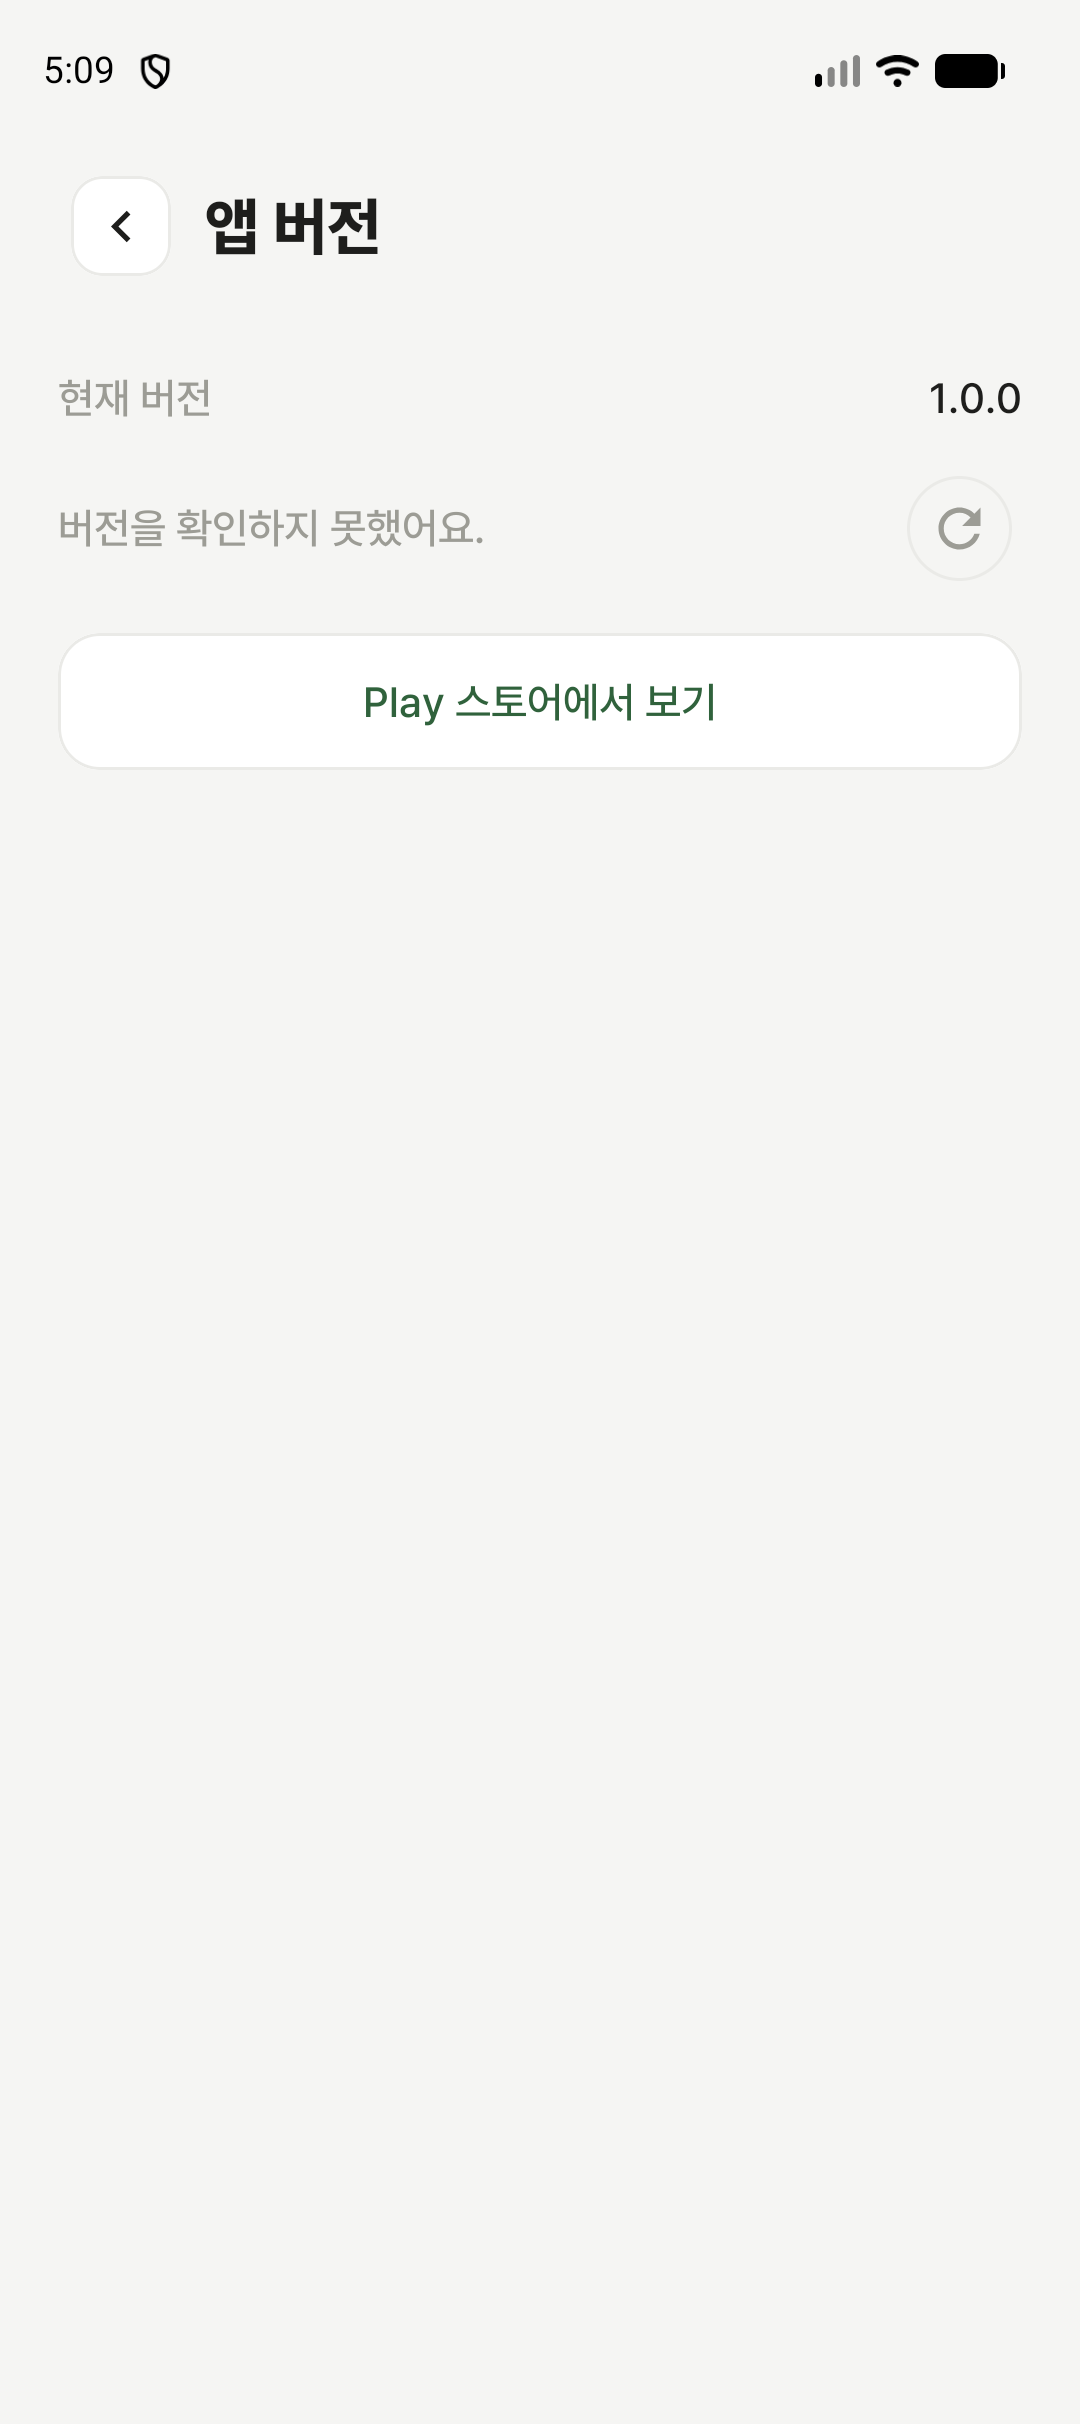
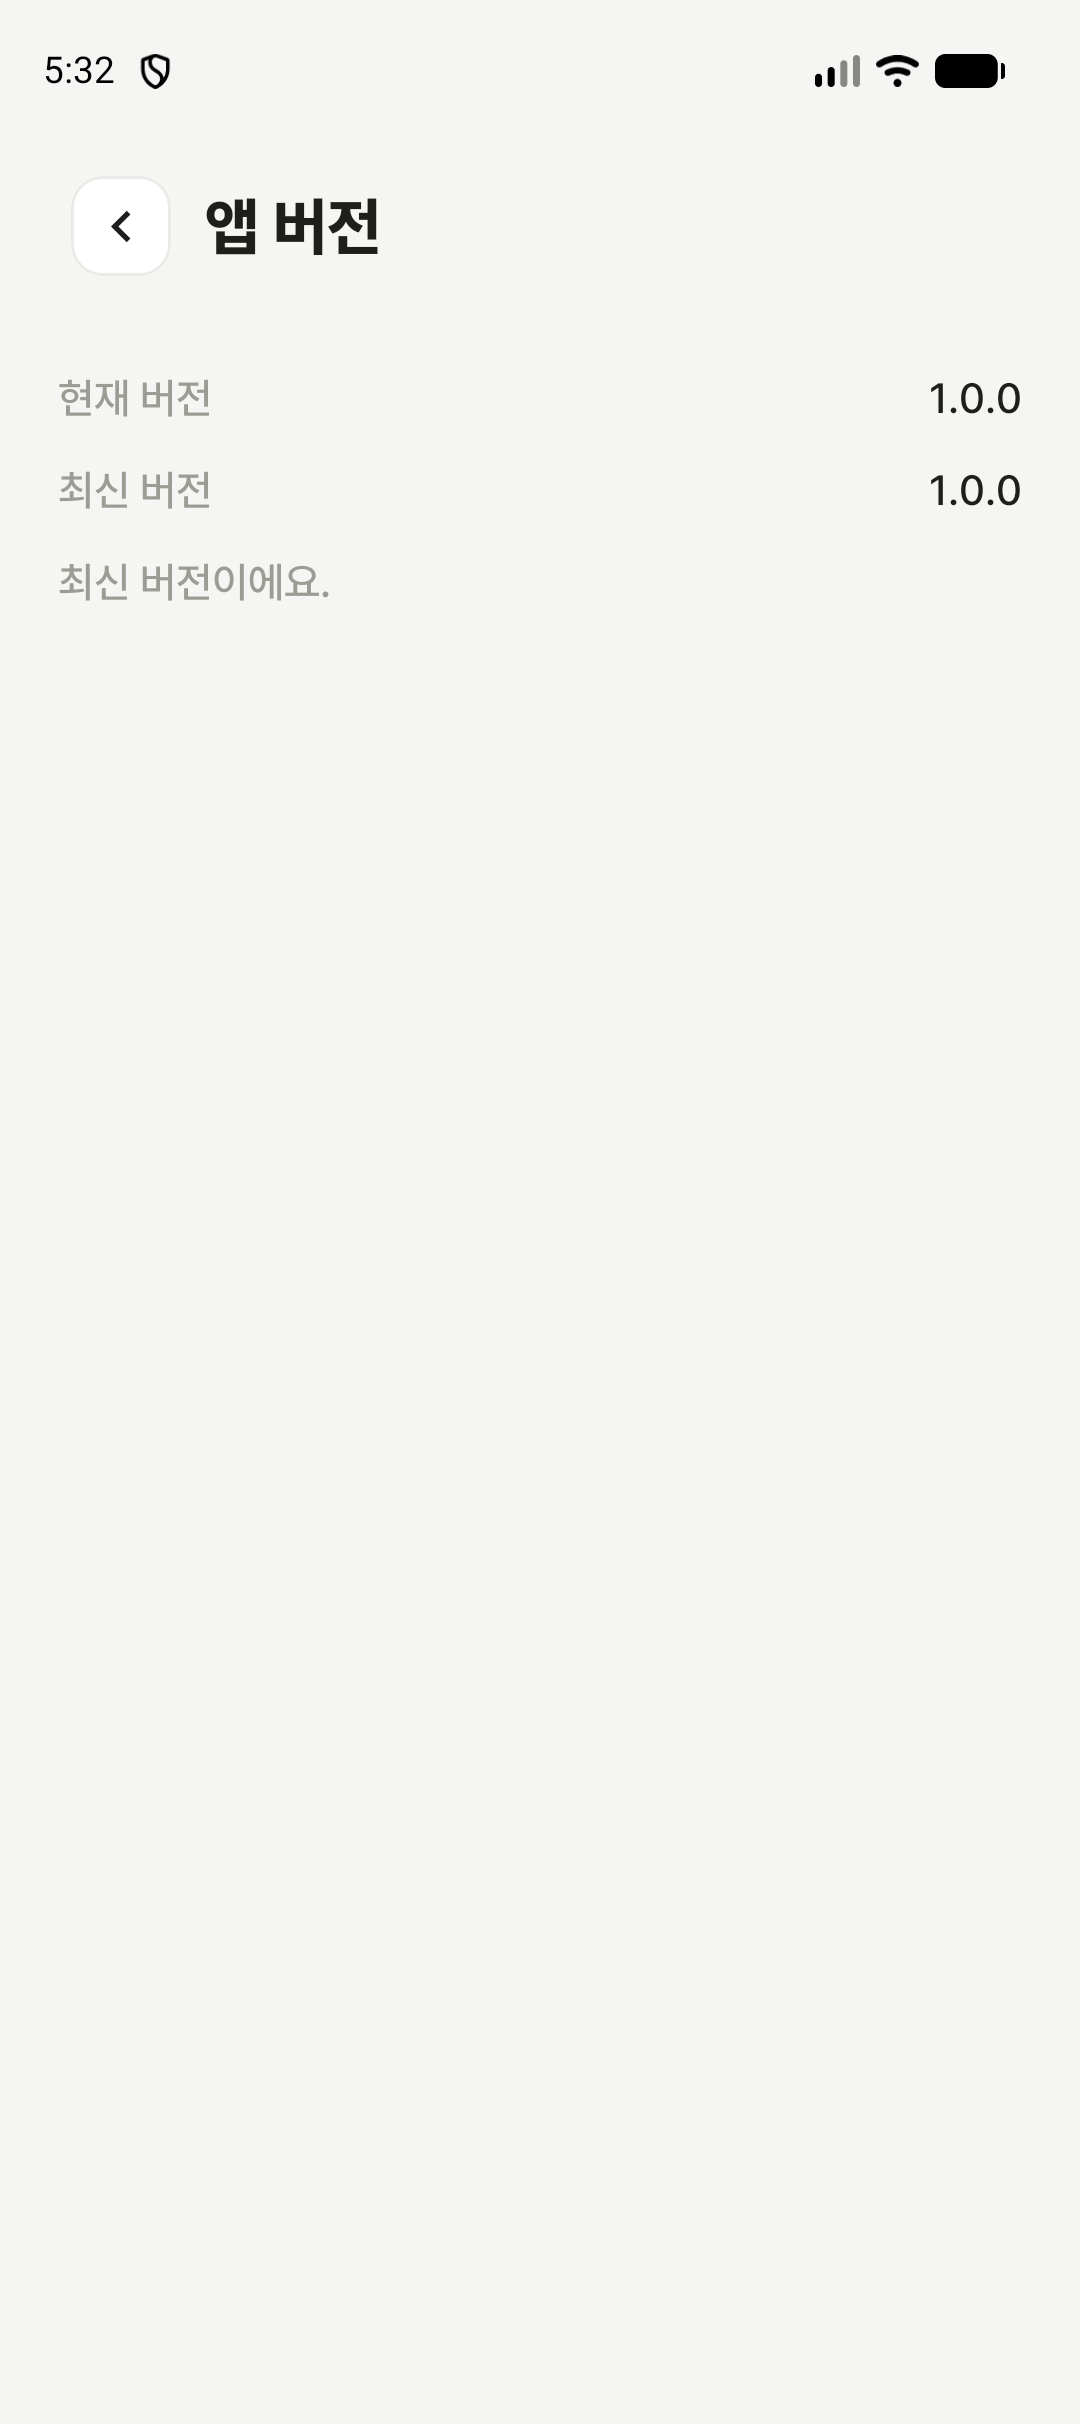
fix(settings): 진입 시 버전 조회와 상태별 버튼 표시 (SCRUM-717)

diff --git a/main/presentation/src/test/java/com/chillsam/courmy/main/presentation/settings/AppVersionViewModelTest.kt b/main/presentation/src/test/java/com/chillsam/courmy/main/presentation/settings/AppVersionViewModelTest.kt
@@ -36,11 +36,23 @@ class AppVersionViewModelTest {
     }
 
     @Test
+    fun `ViewModel 생성만으로 조회하지 않고 화면의 진입 신호를 기다린다`() =
+        runTest(dispatcher) {
+            val viewModel = AppVersionViewModel(checker)
+            advanceUntilIdle()
+
+            assertEquals(AppVersionStatus.Loading, viewModel.uiState.value.status)
+            assertNull(viewModel.uiState.value.latestVersion)
+            coVerify(exactly = 0) { checker(any()) }
+        }
+
+    @Test
     fun `첫 진입 조회 중 연속 재확인을 무시하고 최신 상태로 전환한다`() =
         runTest(dispatcher) {
             val pending = CompletableDeferred<AppVersionCheckVO>()
-            coEvery { checker(forceRefresh = false) } coAnswers { pending.await() }
+            coEvery { checker(forceRefresh = true) } coAnswers { pending.await() }
             val viewModel = AppVersionViewModel(checker)
+            viewModel.onIntent(AppVersionIntent.Check)
             runCurrent()
             assertEquals(AppVersionStatus.Loading, viewModel.uiState.value.status)
             viewModel.onIntent(AppVersionIntent.Check)
@@ -48,15 +60,16 @@ class AppVersionViewModelTest {
             advanceUntilIdle()
             assertEquals(AppVersionStatus.Latest, viewModel.uiState.value.status)
             assertEquals("1.0.0", viewModel.uiState.value.latestVersion)
-            coVerify(exactly = 1) { checker(forceRefresh = false) }
-            coVerify(exactly = 0) { checker(forceRefresh = true) }
+            coVerify(exactly = 1) { checker(forceRefresh = true) }
+            coVerify(exactly = 0) { checker(forceRefresh = false) }
         }
 
     @Test
     fun `새 버전이 있으면 업데이트 가능으로 표시한다`() =
         runTest(dispatcher) {
-            coEvery { checker(forceRefresh = false) } returns AppVersionCheckVO.Checked(12, 13, "1.0.1")
+            coEvery { checker(forceRefresh = true) } returns AppVersionCheckVO.Checked(12, 13, "1.0.1")
             val viewModel = AppVersionViewModel(checker)
+            viewModel.onIntent(AppVersionIntent.Check)
             advanceUntilIdle()
             assertEquals(AppVersionStatus.UpdateAvailable, viewModel.uiState.value.status)
             assertEquals("1.0.1", viewModel.uiState.value.latestVersion)
@@ -65,8 +78,9 @@ class AppVersionViewModelTest {
     @Test
     fun `설정 미제공은 최신으로 표시하지 않고 재확인으로 복구한다`() =
         runTest(dispatcher) {
-            coEvery { checker(forceRefresh = false) } returns AppVersionCheckVO.Unavailable
+            coEvery { checker(forceRefresh = true) } returns AppVersionCheckVO.Unavailable
             val viewModel = AppVersionViewModel(checker)
+            viewModel.onIntent(AppVersionIntent.Check)
             advanceUntilIdle()
             assertEquals(AppVersionStatus.Unavailable, viewModel.uiState.value.status)
             assertNull(viewModel.uiState.value.latestVersion)
@@ -76,15 +90,15 @@ class AppVersionViewModelTest {
             advanceUntilIdle()
             assertEquals(AppVersionStatus.UpdateAvailable, viewModel.uiState.value.status)
             assertEquals("1.0.1", viewModel.uiState.value.latestVersion)
-            coVerify(exactly = 1) { checker(forceRefresh = false) }
-            coVerify(exactly = 1) { checker(forceRefresh = true) }
+            coVerify(exactly = 2) { checker(forceRefresh = true) }
         }
 
     @Test
     fun `조회 예외는 실패 상태로 표시한다`() =
         runTest(dispatcher) {
-            coEvery { checker(forceRefresh = false) } throws IllegalStateException("offline")
+            coEvery { checker(forceRefresh = true) } throws IllegalStateException("offline")
             val viewModel = AppVersionViewModel(checker)
+            viewModel.onIntent(AppVersionIntent.Check)
             advanceUntilIdle()
             assertEquals(AppVersionStatus.Unavailable, viewModel.uiState.value.status)
             assertNull(viewModel.uiState.value.latestVersion)
@@ -93,8 +107,9 @@ class AppVersionViewModelTest {
     @Test
     fun `응답이 없으면 시간 제한 후 재확인할 수 있다`() =
         runTest(dispatcher) {
-            coEvery { checker(forceRefresh = false) } coAnswers { CompletableDeferred<AppVersionCheckVO>().await() }
+            coEvery { checker(forceRefresh = true) } coAnswers { CompletableDeferred<AppVersionCheckVO>().await() }
             val viewModel = AppVersionViewModel(checker)
+            viewModel.onIntent(AppVersionIntent.Check)
             advanceUntilIdle()
             assertEquals(AppVersionStatus.Unavailable, viewModel.uiState.value.status)
             coEvery { checker(forceRefresh = true) } returns AppVersionCheckVO.Checked(13, 12)
@@ -105,11 +120,12 @@ class AppVersionViewModelTest {
         }
 
     @Test
-    fun `수동 새로고침은 원격의 바뀐 최신 이름과 상태를 표시한다`() =
+    fun `화면 진입과 재진입은 각각 강제 조회하여 바뀐 최신 이름과 상태를 표시한다`() =
         runTest(dispatcher) {
-            coEvery { checker(forceRefresh = false) } returns AppVersionCheckVO.Checked(12, 12, "1.0.0")
-            coEvery { checker(forceRefresh = true) } returns AppVersionCheckVO.Checked(12, 15, "1.0.3")
+            coEvery { checker(forceRefresh = true) } returnsMany
+                listOf(AppVersionCheckVO.Checked(12, 12, "1.0.0"), AppVersionCheckVO.Checked(12, 15, "1.0.3"))
             val viewModel = AppVersionViewModel(checker)
+            viewModel.onIntent(AppVersionIntent.Check)
             advanceUntilIdle()
             assertEquals("1.0.0", viewModel.uiState.value.latestVersion)
 
@@ -118,14 +134,16 @@ class AppVersionViewModelTest {
 
             assertEquals(AppVersionStatus.UpdateAvailable, viewModel.uiState.value.status)
             assertEquals("1.0.3", viewModel.uiState.value.latestVersion)
-            coVerify(exactly = 1) { checker(forceRefresh = true) }
+            coVerify(exactly = 2) { checker(forceRefresh = true) }
+            coVerify(exactly = 0) { checker(forceRefresh = false) }
         }
 
     @Test
     fun `원격 이름이 공백이면 최신 버전 코드를 표시한다`() =
         runTest(dispatcher) {
-            coEvery { checker(forceRefresh = false) } returns AppVersionCheckVO.Checked(12, 15, "  ")
+            coEvery { checker(forceRefresh = true) } returns AppVersionCheckVO.Checked(12, 15, "  ")
             val viewModel = AppVersionViewModel(checker)
+            viewModel.onIntent(AppVersionIntent.Check)
             advanceUntilIdle()
             assertEquals("빌드 15", viewModel.uiState.value.latestVersion)
         }
@@ -133,8 +151,9 @@ class AppVersionViewModelTest {
     @Test
     fun `새로고침 실패나 시간 초과에는 이전 최신 버전 이름이 남지 않는다`() =
         runTest(dispatcher) {
-            coEvery { checker(forceRefresh = false) } returns AppVersionCheckVO.Checked(12, 13, "1.0.1")
+            coEvery { checker(forceRefresh = true) } returns AppVersionCheckVO.Checked(12, 13, "1.0.1")
             val viewModel = AppVersionViewModel(checker)
+            viewModel.onIntent(AppVersionIntent.Check)
             advanceUntilIdle()
             assertEquals("1.0.1", viewModel.uiState.value.latestVersion)
 

diff --git a/main/presentation/src/main/java/com/chillsam/courmy/main/presentation/settings/AppVersionPage.kt b/main/presentation/src/main/java/com/chillsam/courmy/main/presentation/settings/AppVersionPage.kt
@@ -27,6 +27,7 @@ import com.chillsam.courmy.common.presentation.component.DsButton
 import com.chillsam.courmy.common.presentation.component.DsButtonVariant
 import com.chillsam.courmy.common.presentation.component.DsText
 import com.chillsam.courmy.common.presentation.helper.LocalNavigationHelper
+import com.chillsam.courmy.common.presentation.helper.RefreshOnResume
 import com.chillsam.courmy.common.presentation.ui.theme.DesignSystemTheme
 import com.chillsam.courmy.common.presentation.ui.theme.DesignSystemThemeImpl
 import com.chillsam.courmy.common.presentation.ui.token.ScreenHorizontalPadding
@@ -47,6 +48,7 @@ fun AppVersionPage(modifier: Modifier = Modifier) {
                 info.versionName.orEmpty()
             }.getOrDefault("버전 정보를 확인할 수 없어요")
         }
+    RefreshOnResume { viewModel.onIntent(AppVersionIntent.Check) }
     AppVersionContent(
         state = state,
         installedVersion = installedVersion,
@@ -106,29 +108,27 @@ private fun AppVersionContent(
                     maxLines = Int.MAX_VALUE,
                     modifier = Modifier.weight(1f),
                 )
-                OutlinedIconButton(
-                    onClick = onCheck,
-                    enabled = state.status != AppVersionStatus.Loading,
-                    border = BorderStroke(1.dp, color.borderDefaultLevel0),
-                ) {
-                    Icon(
-                        painter = painterResource(R.drawable.ic_refresh_24),
-                        contentDescription = "버전 다시 확인",
-                        tint = color.contentDefaultLevel2,
-                    )
+                if (state.status == AppVersionStatus.Unavailable) {
+                    OutlinedIconButton(
+                        onClick = onCheck,
+                        border = BorderStroke(1.dp, color.borderDefaultLevel0),
+                    ) {
+                        Icon(
+                            painter = painterResource(R.drawable.ic_refresh_24),
+                            contentDescription = "버전 다시 확인",
+                            tint = color.contentDefaultLevel2,
+                        )
+                    }
                 }
             }
-            DsButton(
-                text = if (state.status == AppVersionStatus.UpdateAvailable) "업데이트하러 가기" else "Play 스토어에서 보기",
-                onClick = onStore,
-                variant =
-                    if (state.status == AppVersionStatus.UpdateAvailable) {
-                        DsButtonVariant.Primary
-                    } else {
-                        DsButtonVariant.Secondary
-                    },
-                modifier = Modifier.fillMaxWidth(),
-            )
+            if (state.status == AppVersionStatus.UpdateAvailable) {
+                DsButton(
+                    text = "업데이트하러 가기",
+                    onClick = onStore,
+                    variant = DsButtonVariant.Primary,
+                    modifier = Modifier.fillMaxWidth(),
+                )
+            }
         }
     }
 }

diff --git a/main/presentation/src/main/java/com/chillsam/courmy/main/presentation/settings/AppVersionViewModel.kt b/main/presentation/src/main/java/com/chillsam/courmy/main/presentation/settings/AppVersionViewModel.kt
@@ -19,24 +19,20 @@ class AppVersionViewModel
     ) : MviViewModel<AppVersionIntent, AppVersionUIState, AppVersionReducerEvent>(AppVersionUIState()) {
         private var checkJob: Job? = null
 
-        init {
-            check(forceRefresh = false)
-        }
-
         override fun onIntent(intent: AppVersionIntent) {
             when (intent) {
-                AppVersionIntent.Check -> check(forceRefresh = true)
+                AppVersionIntent.Check -> check()
             }
         }
 
-        private fun check(forceRefresh: Boolean) {
+        private fun check() {
             if (checkJob?.isActive == true) return
             dispatch(AppVersionReducerEvent.CheckStarted)
             checkJob =
                 viewModelScope.launch {
                     val result =
                         try {
-                            withTimeoutOrNull(CHECK_TIMEOUT_MS) { checkAppVersion(forceRefresh) }
+                            withTimeoutOrNull(CHECK_TIMEOUT_MS) { checkAppVersion(forceRefresh = true) }
                                 ?: AppVersionCheckVO.Unavailable
                         } catch (error: CancellationException) {
                             throw error
